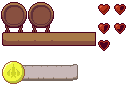
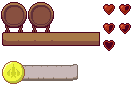
Add beekeeping information

diff --git a/Source/HarvestMoon/GUI/GUIManager.cs b/Source/HarvestMoon/GUI/GUIManager.cs
@@ -22,6 +22,7 @@ using Microsoft.Xna.Framework.Content;
 using MonoGame.Extended.Sprites;
 using MonoGame.Extended.TextureAtlases;
 using HarvestMoon.Entities.General;
+using HarvestMoon.Animation;
 
 namespace HarvestMoon.GUI
 {
@@ -104,116 +105,66 @@ namespace HarvestMoon.GUI
 
         public GUIManager(ContentManager content)
         {
+
             float frameDuration = 1.0f / 7.5f;
 
-            var characterTexture = content.Load<Texture2D>("ui/objects");
-            var characterMap = content.Load<Dictionary<string, Rectangle>>("ui/uiMap");
-            var characterAtlas = new TextureAtlas("ui", characterTexture, characterMap);
-            var characterAnimationFactory = new SpriteSheet
-            {
-                TextureAtlas = characterAtlas,
-                Cycles =
-                {
-                    {
-                        "day_tool", new SpriteSheetAnimationCycle
-                        {
-                            IsLooping = true,
-                            IsPingPong = false,
-                            FrameDuration = frameDuration,
-                            Frames =
-                            {
-                                // TODO: Fix per frame duration
-                                new SpriteSheetAnimationFrame(0)
-                            }
-                        }
-                    },
-                    {
-                        "gold", new SpriteSheetAnimationCycle
-                        {
-                            IsLooping = true,
-                            IsPingPong = false,
-                            FrameDuration = frameDuration,
-                            Frames =
-                            {
-                                // TODO: Fix per frame duration
-                                new SpriteSheetAnimationFrame(1)
-                            }
-                        }
-                    },
-                    {
-                        "heart_full", new SpriteSheetAnimationCycle
-                        {
-                            IsLooping = true,
-                            IsPingPong = false,
-                            FrameDuration = frameDuration,
-                            Frames =
-                            {
-                                // TODO: Fix per frame duration
-                                new SpriteSheetAnimationFrame(2)
-                            }
-                        }
-                    },
-                    {
-                        "heart_quarter", new SpriteSheetAnimationCycle
-                        {
-                            IsLooping = true,
-                            IsPingPong = false,
-                            FrameDuration = frameDuration,
-                            Frames =
-                            {
-                                // TODO: Fix per frame duration
-                                new SpriteSheetAnimationFrame(3)
-                            }
-                        }
-                    },
-                    {
-                        "heart_half", new SpriteSheetAnimationCycle
-                        {
-                            IsLooping = true,
-                            IsPingPong = false,
-                            FrameDuration = frameDuration,
-                            Frames =
-                            {
-                                // TODO: Fix per frame duration
-                                new SpriteSheetAnimationFrame(4)
-                            }
-                        }
-                    },
-                    {
-                        "heart_three_quarters", new SpriteSheetAnimationCycle
-                        {
-                            IsLooping = true,
-                            IsPingPong = false,
-                            FrameDuration = frameDuration,
-                            Frames =
-                            {
-                                // TODO: Fix per frame duration
-                                new SpriteSheetAnimationFrame(5)
-                            }
-                        }
-                    },
-                    {
-                        "heart_empty", new SpriteSheetAnimationCycle
-                        {
-                            IsLooping = true,
-                            IsPingPong = false,
-                            FrameDuration = frameDuration,
-                            Frames =
-                            {
-                                // TODO: Fix per frame duration
-                                new SpriteSheetAnimationFrame(6)
-                            }
-                        }
-                    }
-                }
-            };
+            var dayToolSprite = AnimationLoader.LoadAnimatedSprite(content,
+                                                         "ui/objects",
+                                                         "ui/uiMap",
+                                                         "dayTool",
+                                                         frameDuration,
+                                                         true);
 
-            _dayToolSprite = new AnimatedSprite(characterAnimationFactory, "day_tool");
-            _goldSprite = new AnimatedSprite(characterAnimationFactory, "gold");
-            _staminaSprites.Add(new AnimatedSprite(characterAnimationFactory, "heart_full"));
-            _staminaSprites.Add(new AnimatedSprite(characterAnimationFactory, "heart_full"));
-            _staminaSprites.Add(new AnimatedSprite(characterAnimationFactory, "heart_full"));
-            _staminaSprites.Add(new AnimatedSprite(characterAnimationFactory, "heart_full"));
+            var goldSprite = AnimationLoader.LoadAnimatedSprite(content,
+                                             "ui/objects",
+                                             "ui/uiMap",
+                                             "gold",
+                                             frameDuration,
+                                             true);
+
+            var staminaA = AnimationLoader.LoadAnimatedSprite(content,
+                                             "ui/objects",
+                                             "ui/uiMap",
+                                             "staminaA",
+                                             frameDuration,
+                                             true);
+
+            var staminaB = AnimationLoader.LoadAnimatedSprite(content,
+                                             "ui/objects",
+                                             "ui/uiMap",
+                                             "staminaB",
+                                             frameDuration,
+                                             true);
+
+            var staminaC = AnimationLoader.LoadAnimatedSprite(content,
+                                                         "ui/objects",
+                                                         "ui/uiMap",
+                                                         "staminaC",
+                                                         frameDuration,
+                                                         true);
+
+            var staminaD = AnimationLoader.LoadAnimatedSprite(content,
+                                             "ui/objects",
+                                             "ui/uiMap",
+                                             "staminaD",
+                                             frameDuration,
+                                             true);
+
+            dayToolSprite.Play("day_tool");
+            goldSprite.Play("gold");
+
+            _dayToolSprite = dayToolSprite;
+            _goldSprite = goldSprite;
+
+            staminaA.Play("heart_full");
+            staminaB.Play("heart_full");
+            staminaC.Play("heart_full");
+            staminaD.Play("heart_full");
+
+            _staminaSprites.Add(staminaA);
+            _staminaSprites.Add(staminaB);
+            _staminaSprites.Add(staminaC);
+            _staminaSprites.Add(staminaD);
 
             _holdingItemSprites.Add("axe", new Sprite(content.Load<Texture2D>("maps/tools-room/items/axe")));
             _holdingItemSprites.Add("grass-seeds", new Sprite(content.Load<Texture2D>("maps/tools-room/items/grass-seeds")));
@@ -966,7 +917,7 @@ namespace HarvestMoon.GUI
 
             if (HarvestMoon.Instance.MaxStamina >= 60 + offset)
             {
-                if (HarvestMoon.Instance.Stamina == 0 + offset)
+                if (HarvestMoon.Instance.Stamina <= 0 + offset)
                 {
                     staminaSprite.Play("heart_empty");
                 }

diff --git a/Win32/HarvestMoon/Entities/Town/BeeSocialBookshelf.cs b/Win32/HarvestMoon/Entities/Town/BeeSocialBookshelf.cs
@@ -1,0 +1,44 @@
+using HarvestMoon.Entities.General;
+using Microsoft.Xna.Framework;
+using MonoGame.Extended;
+using System;
+using System.Collections.Generic;
+using System.Linq;
+using System.Text;
+using System.Threading.Tasks;
+
+namespace HarvestMoon.Entities.Town
+{
+    internal class BeeSocialBookshelf: Bookshelf
+    {
+        static List<string> GetItems()
+        {
+            return new List<string> { "Intro", "Queen", "Workers", "Laying workers", "Drones"};
+        }
+
+        static List<string> GetText()
+        {
+            return new List<string> {
+                "Unlike most insects, honey bees are social creatures. They live in well-maintained and organized colonies, relying on the hard work of themselves and their brethren to keep the hive safe and healthy. The complexity of the hive—from the communication to the division of labor to behaviors like environmental regulation and defense—makes these highly evolved creatures downright fascinating. So, what is the social structure of honey bees?",
+                "Everyone's heard of the queen bee. Colonies can have tens of thousands of bees, but there's only one queen. She also lives far longer than the others—four years to a worker bee's six or so weeks. Obviously, she's the most important member of the hive. The queen's main responsibility is reproduction. She lays all the eggs in the colony, and she's the only one who can produce fertilized eggs. This is because, shortly after a new queen emerges from her cell, she goes on her mating flight. By herself, she leaves the hive and flies a distance away to mate with drones from other colonies. A couple of days after the mating flight, the queen begins to lay eggs. She will continue reproducing fertilized and unfertilized eggs (creating worker bees and drones, respectively) for the next couple of years. That is until she dies or becomes too old to lay.",
+                "If you see a honey bee flying around, chances are it’s a worker bee. These bees make up the vast majority of the colony. Worker bees are all females. However, unlike the queen, they are not as sexually developed. Instead of reproducing, they do all the work in the hive. Worker bees are responsible for forming the hive cells, making honey and beeswax, taking care of the queen, and defending the hive. A subset of the worker bees is nurse bees, who feed and take care of the brood. Other workers are field bees. They're the ones who forage for nectar, pollen, and other resources for the hive. The worker bees share these jobs throughout their life. They start by working in the hive before eventually becoming field bees.",
+                "If a colony loses its queen and can't replace her right away, some of the worker bees will begin to lay eggs. However, because these workers never went on a mating flight, they'll only be able to lay unfertilized eggs. This results in new drones, but no new workers, throwing off the balance of the colony. With no new populations to take care of the brood, make honey, and forage for resources, the hive quickly fails.",
+                "The final type of adult bee is the drone. These are the male bees in the hive. They're larger than their female counterparts—though not as big as the queen—and they don't have a stinger, pollen baskets, or wax glands. Their main responsibility is to fertilize another colony's queen on her mating flight, and they die after mating. While they don’t make any contributions to their own hive, they play an important role in spreading genetics throughout bee populations. The more drones a queen mates with, the greater the genetic diversity of her colony is, and the more successful the hive will be. However, because they can drain resources, the worker bees will often push out any drones in the hive in preparation for winter."
+            }; 
+        }
+
+        public BeeSocialBookshelf(Vector2 initialPosition,
+                            Size2 size,
+                            string message,
+                            string title):
+           base(initialPosition,
+                size,
+                message,
+                title,
+                GetItems(),
+                GetText())
+        {
+            Reading = false;
+        }
+    }
+}

diff --git a/Win32/HarvestMoon/Entities/Town/BeeAnatomyBookshelf.cs b/Win32/HarvestMoon/Entities/Town/BeeAnatomyBookshelf.cs
@@ -1,0 +1,43 @@
+using HarvestMoon.Entities.General;
+using Microsoft.Xna.Framework;
+using MonoGame.Extended;
+using System;
+using System.Collections.Generic;
+using System.Linq;
+using System.Text;
+using System.Threading.Tasks;
+
+namespace HarvestMoon.Entities.Town
+{
+    internal class BeeAnatomyBookshelf: Bookshelf
+    {
+        static List<string> GetItems()
+        {
+            return new List<string> { "Intro", "Head", "Abdomen", "Thorax"};
+        }
+
+        static List<string> GetText()
+        {
+            return new List<string> {
+                "Despite their small size, honeybees are complex creatures with many fascinating characteristics, from long tongues that suck up nectar to stiff hairs that collect pollen. Their bodies are designed specifically for the role they play in nature.",
+                "The head of a honeybee includes the antennae, eyes, and mouth. The antennae have thousands of smell, taste, and touch receptors that help the bee navigate the world around it. Because they spend much of their time in poorly lit hives, bees rely more on their antennae than on their eyes. This is why their eyes are designed to detect motion rather than to see high-resolution images. Bees have five eyes: two compound eyes that sense and focus on light, and three simple eyes that don't focus but instead provide information on the intensity of the light around them. Finally, a honeybee's mouth contains organs that allow them to suck and chew materials. The mandibles act as teeth and allow the bee to chew wood or wax. The proboscis is a tube-like organ that lets the bee suck in nectar, water, and honey.",
+                "A honeybee's abdomen appears less complicated than other parts of the body, but it houses important organs such as the digestive tract and—in queen bees—the reproductive system. Worker bees have wax scales on their abdomens, produced by their own wax glands when they're a week or two old. The abdomen is also the location of the stinger and venom glands. Only female bees have stingers: sharp, barbed organs that bees use to attack predators and inject them with venom.",
+                "The thorax is the location of a bee's legs and wings. Bees have two sets of wings: larger front wings and smaller hind wings, which work together in perfect synchronization during flight. The thorax also houses two sets of flight muscles—vertical and longitudinal—that contract in turn to raise and lower the wings. A honeybee's legs have stiff hairs that allow it to collect pollen and brush itself clean. Worker bees also have special pollen baskets on their hind legs. This allows them to brush pollen from their bodies and into the basket for safe transport back to the hive."
+            }; 
+        }
+
+        public BeeAnatomyBookshelf(Vector2 initialPosition,
+                            Size2 size,
+                            string message,
+                            string title):
+           base(initialPosition,
+                size,
+                message,
+                title,
+                GetItems(),
+                GetText())
+        {
+            Reading = false;
+        }
+    }
+}

diff --git a/Win32/HarvestMoon/Screens/Library.cs b/Win32/HarvestMoon/Screens/Library.cs
@@ -128,19 +128,39 @@ namespace HarvestMoon.Screens
 
                         var objectSize = obj.Size;
 
-                        string objectMessage = "";
-
-                        foreach (var property in obj.Properties)
+                        if(obj.Type == "npc")
                         {
-                            if (property.Key.Contains("message"))
+                            string objectMessage = "";
+
+                            foreach (var property in obj.Properties)
                             {
-                                objectMessage = HarvestMoon.Instance.Strings.Get(property.Value);
+                                if (property.Key.Contains("message"))
+                                {
+                                    objectMessage = HarvestMoon.Instance.Strings.Get(property.Value);
+                                }
                             }
-                        }
 
-                        if (obj.Name == "anna")
-                        {
-                            _entityManager.AddEntity(new Anna(Content, objectPosition, objectSize));
+                            if (obj.Name == "anna")
+                            {
+                                _entityManager.AddEntity(new Anna(Content, objectPosition, objectSize));
+                            }
+                            
+                            if(obj.Name == "bee-anatomy")
+                            {
+                                _entityManager.AddEntity(new BeeAnatomyBookshelf(objectPosition,
+                                                                                objectSize,
+                                                                                "Useful info on bees' anatomy.",
+                                                                                 "Bee anatomy"));
+                            }
+
+                            if(obj.Name == "bee-social")
+                            {
+                                _entityManager.AddEntity(new BeeSocialBookshelf(objectPosition,
+                                                                                objectSize,
+                                                                                "Useful info on bees' social structure.",
+                                                                                 "Bee social"));
+                            }
+
                         }
 
                     }

diff --git a/Source/HarvestMoon/HarvestMoon.cs b/Source/HarvestMoon/HarvestMoon.cs
@@ -231,7 +231,7 @@ namespace HarvestMoon
 
             Instance = this;
 
-            MaxStamina = 60;
+            MaxStamina = 120;
 
         }
 
@@ -527,7 +527,7 @@ namespace HarvestMoon
                 Instance.Sheeps = saveGame.Sheeps;
                 Instance.Chickens = saveGame.Chickens;
 
-                Instance.MaxStamina = saveGame.MaxStamina != 0 ? saveGame.MaxStamina : 60;
+                Instance.MaxStamina = saveGame.MaxStamina != 0 ? saveGame.MaxStamina : 120;
 
                 var cutsceneTriggers = new SerializableDictionary<string, bool>();
                 cutsceneTriggers.Add("onboarding", false);
@@ -612,6 +612,10 @@ namespace HarvestMoon
 
                 CutsceneTriggers = cutsceneTriggers;
 
+                Instance.MaxStamina = 120;
+                Instance.Stamina = 120;
+
+                Instance.Gold = 350;
             }
 
         }

diff --git a/Source/HarvestMoon/Screens/House.cs b/Source/HarvestMoon/Screens/House.cs
@@ -52,7 +52,7 @@ namespace HarvestMoon.Screens
 
             if (_arrival != HarvestMoon.Arrival.Ranch)
             {
-                HarvestMoon.Instance.Stamina = 60;
+                HarvestMoon.Instance.Stamina = HarvestMoon.Instance.MaxStamina;
 
                 HarvestMoon.Instance.Gold += HarvestMoon.Instance.TodayGold;
                 HarvestMoon.Instance.TodayGold = 0;
